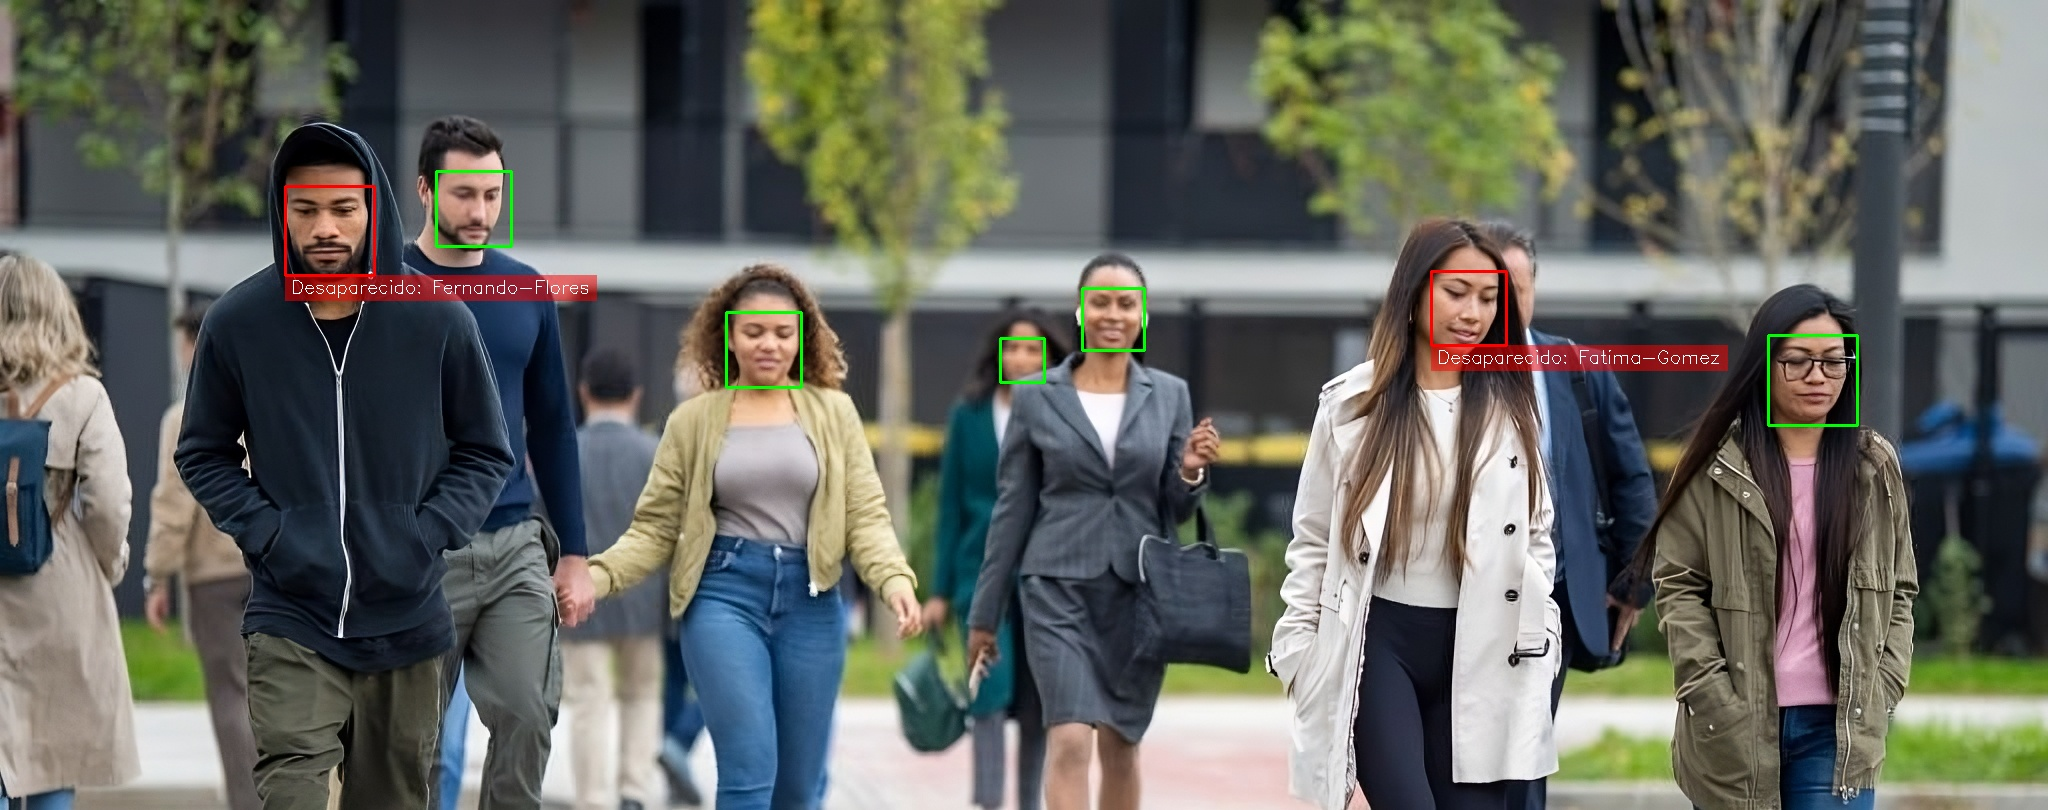
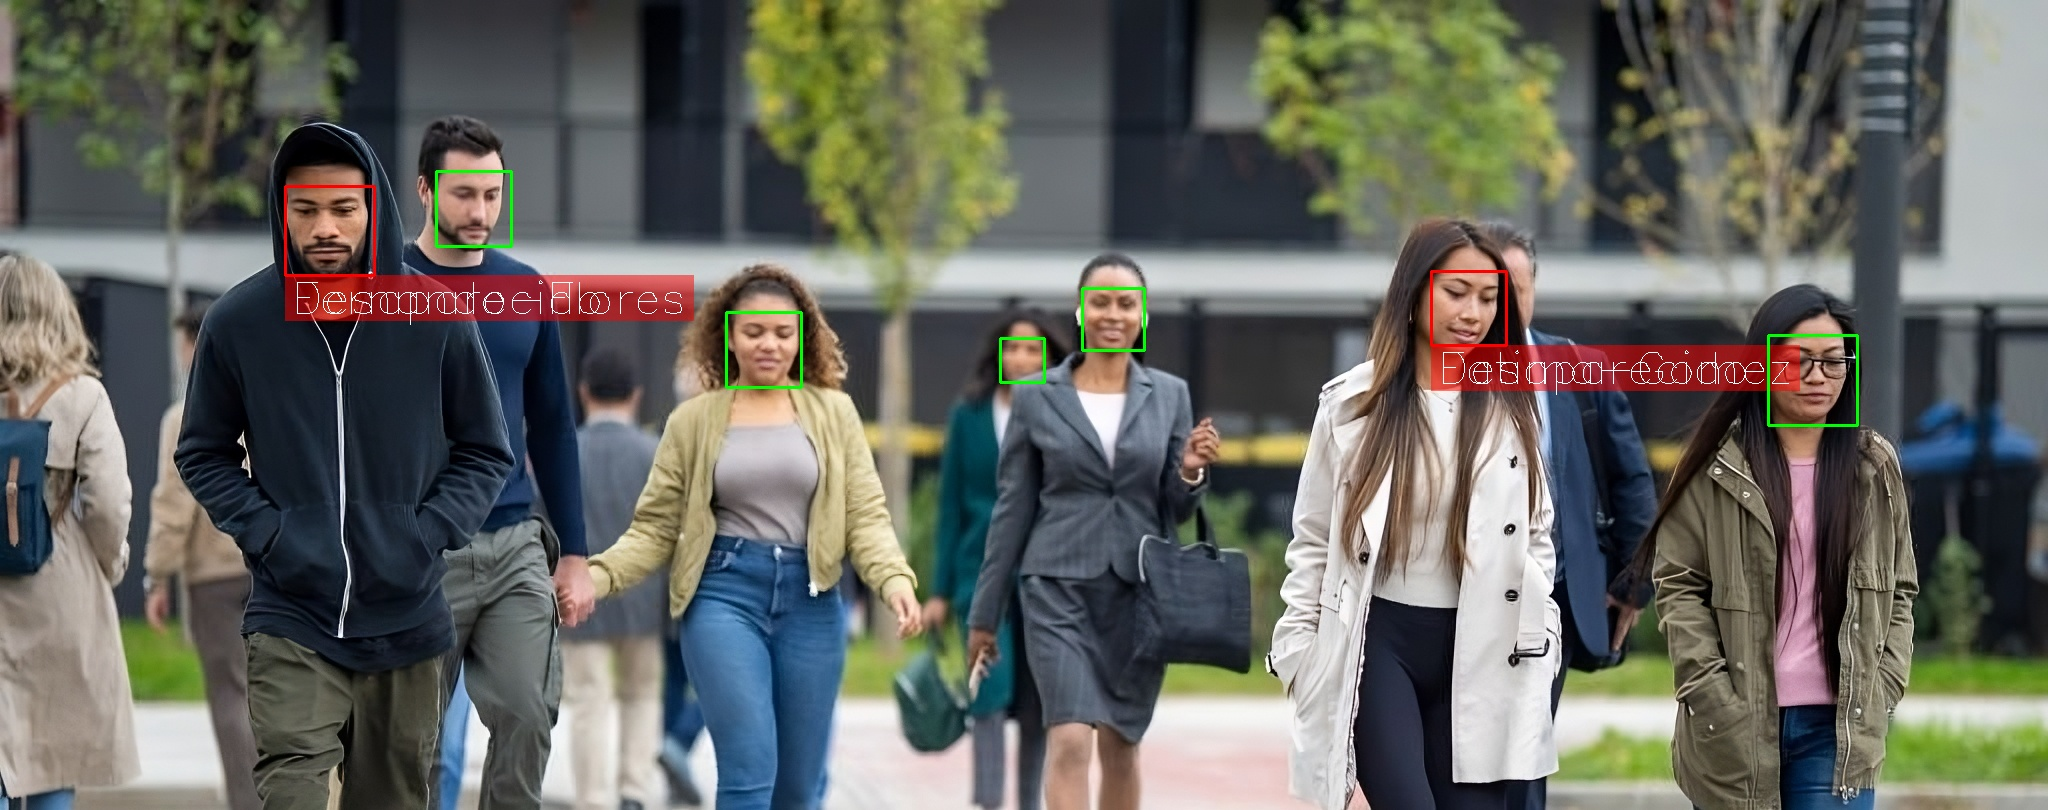
cambios

Changed region(s): [[0.6875, 0.4012, 0.9062, 0.4938], [0.125, 0.3395, 0.3438, 0.4012]]

diff --git a/static/css/styles.css b/static/css/styles.css
@@ -5,15 +5,25 @@
     box-sizing: border-box;
 }
 
+/* Actualización de colores principales */
+:root {
+    --color-primary: #4B5320;
+    --color-secondary: #C2B280;
+    --color-dark: #4A4A48;
+    --color-accent: #544E38;
+    --color-light: #E8E4D5;
+}
+
 body {
     font-family: 'Segoe UI', Tahoma, Geneva, Verdana, sans-serif;
-    background: linear-gradient(135deg, #1a202c 0%, #2d3748 50%, #1a365d 100%);
     min-height: 100vh;
     display: flex;
     align-items: center;
     justify-content: center;
     padding: 20px;
     position: relative;
+    background-color: #f5f5f5;
+    /* Color de respaldo */
 }
 
 body::before {
@@ -23,10 +33,12 @@ body::before {
     left: 0;
     right: 0;
     bottom: 0;
-    background-image: 
-        radial-gradient(circle at 25% 25%, rgba(59, 130, 246, 0.1) 0%, transparent 50%),
-        radial-gradient(circle at 75% 75%, rgba(16, 185, 129, 0.1) 0%, transparent 50%);
-    pointer-events: none;
+    background-image: url('/static/css/fondo.jpg');
+    background-size: cover;
+    background-position: center;
+    background-repeat: no-repeat;
+    z-index: -1;
+    filter: brightness(0.95);
 }
 
 /* Contenedor principal */
@@ -34,13 +46,10 @@ body::before {
     background: rgba(255, 255, 255, 0.98);
     backdrop-filter: blur(15px);
     border-radius: 15px;
-    box-shadow: 
-        0 25px 50px rgba(0, 0, 0, 0.25),
-        0 0 0 1px rgba(255, 255, 255, 0.1);
+    border-left: 4px solid var(--color-primary);
+    box-shadow: 0 25px 50px rgba(74, 74, 72, 0.25);
     padding: 40px;
-    width: 100%;
-    max-width: 700px;
-    border-left: 4px solid #dc2626;
+    width: 90%;
     position: relative;
     z-index: 1;
 }
@@ -57,14 +66,15 @@ body::before {
     display: inline-flex;
     align-items: center;
     gap: 8px;
-    background: linear-gradient(135deg, #dc2626, #b91c1c);
+    background: linear-gradient(135deg, var(--color-primary), var(--color-dark));
+    box-shadow: 0 4px 12px rgba(75, 83, 32, 0.3);
     color: white;
     padding: 8px 16px;
     border-radius: 25px;
     font-size: 0.9rem;
     font-weight: 600;
     margin-bottom: 15px;
-    box-shadow: 0 4px 12px rgba(220, 38, 38, 0.3);
+
 }
 
 .header h1 {
@@ -202,23 +212,23 @@ body::before {
 .analyze-btn {
     width: 100%;
     padding: 16px 30px;
-    background: linear-gradient(135deg, #dc2626, #b91c1c);
-    color: white;
+    background: linear-gradient(135deg, var(--color-primary), var(--color-accent));
+    color: #ffffff;
+    box-shadow: 0 6px 20px rgba(75, 83, 32, 0.3);
     border: none;
     border-radius: 10px;
     font-size: 1.1rem;
     font-weight: 700;
     cursor: pointer;
     transition: all 0.3s ease;
-    box-shadow: 0 6px 20px rgba(220, 38, 38, 0.3);
     text-transform: uppercase;
     letter-spacing: 0.5px;
 }
 
 .analyze-btn:hover:not(:disabled) {
     transform: translateY(-2px);
-    box-shadow: 0 10px 30px rgba(220, 38, 38, 0.4);
-    background: linear-gradient(135deg, #b91c1c, #991b1b);
+    box-shadow: 0 10px 30px rgba(75, 83, 32, 0.4);
+    background: linear-gradient(135deg, var(--color-dark), var(--color-accent));
 }
 
 .analyze-btn:disabled {
@@ -290,15 +300,15 @@ body::before {
 }
 
 .status-critical {
-    background: #fee2e2;
-    color: #991b1b;
-    border: 1px solid #fecaca;
+    background: var(--color-primary);
+    color: var(--color-light);
+    border: 1px solid var(--color-accent);
 }
 
 .status-clear {
-    background: #dcfce7;
-    color: #166534;
-    border: 1px solid #bbf7d0;
+    background: var(--color-secondary);
+    color: var(--color-dark);
+    border: 1px solid var(--color-accent);
 }
 
 .persons-detected h3 {
@@ -318,7 +328,8 @@ body::before {
     align-items: center;
     gap: 12px;
     padding: 12px;
-    background: white;
+    border: 1px solid var(--color-accent);
+    background: var(--color-light);
     border-radius: 8px;
     margin-bottom: 8px;
     box-shadow: 0 2px 8px rgba(0, 0, 0, 0.1);
@@ -335,8 +346,8 @@ body::before {
 }
 
 .person-status {
-    background: #dc2626;
-    color: white;
+    background: var(--color-primary);
+    color: var(--color-light);
     padding: 4px 8px;
     border-radius: 12px;
     font-size: 0.8rem;
@@ -415,8 +426,8 @@ body::before {
 }
 
 .result-image {
-    max-width: 100%;
-    max-height: 500px;
+    width: 100%;
+    height: fit-content;
     border-radius: 8px;
     box-shadow: 0 4px 15px rgba(0, 0, 0, 0.1);
 }
@@ -442,7 +453,8 @@ body::before {
     margin-bottom: 30px;
 }
 
-.btn-back, .btn-report {
+.btn-back,
+.btn-report {
     flex: 1;
     padding: 12px 20px;
     border-radius: 8px;
@@ -456,22 +468,22 @@ body::before {
 }
 
 .btn-back {
-    background: linear-gradient(135deg, #6b7280, #4b5563);
+    background: linear-gradient(135deg, var(--color-dark), var(--color-accent));
     color: white;
 }
 
 .btn-back:hover {
-    background: linear-gradient(135deg, #4b5563, #374151);
+    background: linear-gradient(135deg, var(--color-accent), var(--color-dark));
     transform: translateY(-2px);
 }
 
 .btn-report {
-    background: linear-gradient(135deg, #059669, #047857);
+    background: linear-gradient(135deg, var(--color-primary), var(--color-accent));
     color: white;
 }
 
 .btn-report:hover {
-    background: linear-gradient(135deg, #047857, #065f46);
+    background: linear-gradient(135deg, var(--color-primary), var(--color-accent));
     transform: translateY(-2px);
 }
 
@@ -503,13 +515,27 @@ body::before {
 
 /* Animaciones */
 @keyframes fadeIn {
-    from { opacity: 0; transform: translateY(10px); }
-    to { opacity: 1; transform: translateY(0); }
+    from {
+        opacity: 0;
+        transform: translateY(10px);
+    }
+
+    to {
+        opacity: 1;
+        transform: translateY(0);
+    }
 }
 
 @keyframes slideIn {
-    from { opacity: 0; transform: translateX(-20px); }
-    to { opacity: 1; transform: translateX(0); }
+    from {
+        opacity: 0;
+        transform: translateX(-20px);
+    }
+
+    to {
+        opacity: 1;
+        transform: translateX(0);
+    }
 }
 
 /* Responsive */
@@ -518,11 +544,11 @@ body::before {
         padding: 25px;
         margin: 10px;
     }
-    
+
     .header h1 {
         font-size: 1.9rem;
     }
-    
+
     .upload-area {
         padding: 30px 15px;
     }
@@ -552,13 +578,13 @@ body::before {
         background: white;
         padding: 0;
     }
-    
+
     .container {
         box-shadow: none;
         border: 1px solid #ccc;
         background: white;
     }
-    
+
     .actions-section {
         display: none;
     }

diff --git a/detector.py b/detector.py
@@ -40,13 +40,28 @@ def analizar_imagen(nombre_imagen):
             nombre = nombres[index]
             encontrados.append(nombre)
             cv2.rectangle(imagen_cv, (left, top), (right, bottom), (0, 0, 255), 2)
-            etiqueta = f"Desaparecido: {nombre}"
-            (w, h), _ = cv2.getTextSize(etiqueta, cv2.FONT_HERSHEY_SIMPLEX, 0.6, 1)
+            
+            # Modificación para mostrar el texto en dos líneas
+            etiqueta1 = "Desaparecido"
+            etiqueta2 = nombre
+            
+            # Obtener dimensiones para ambas etiquetas
+            (w1, h1), _ = cv2.getTextSize(etiqueta1, cv2.FONT_HERSHEY_SIMPLEX, 0.9, 1)
+            (w2, h2), _ = cv2.getTextSize(etiqueta2, cv2.FONT_HERSHEY_SIMPLEX, 0.9, 1)
+            
+            # Usar el ancho más grande para el rectángulo de fondo
+            w = max(w1, w2)
+            
+            # Crear el fondo semi-transparente
             overlay = imagen_cv.copy()
-            cv2.rectangle(overlay, (left, bottom), (left + w + 12, bottom + 25), (0, 0, 255), -1)
+            cv2.rectangle(overlay, (left, bottom), (left + w + 12, bottom + 45), (0, 0, 255), -1)
             cv2.addWeighted(overlay, 0.5, imagen_cv, 0.5, 0, imagen_cv)
-            cv2.putText(imagen_cv, etiqueta, (left + 6, bottom + 18), 
-                        cv2.FONT_HERSHEY_SIMPLEX, 0.6, (255, 255, 255), 1)
+            
+            # Agregar ambas líneas de texto
+            cv2.putText(imagen_cv, etiqueta1, (left + 6, bottom + 18), 
+                        cv2.FONT_HERSHEY_SIMPLEX, 0.9, (255, 255, 255), 1)
+            cv2.putText(imagen_cv, etiqueta2, (left + 6, bottom + 38), 
+                        cv2.FONT_HERSHEY_SIMPLEX, 0.9, (255, 255, 255), 1)
         else:
             cv2.rectangle(imagen_cv, (left, top), (right, bottom), (0, 255, 0), 2)
 
